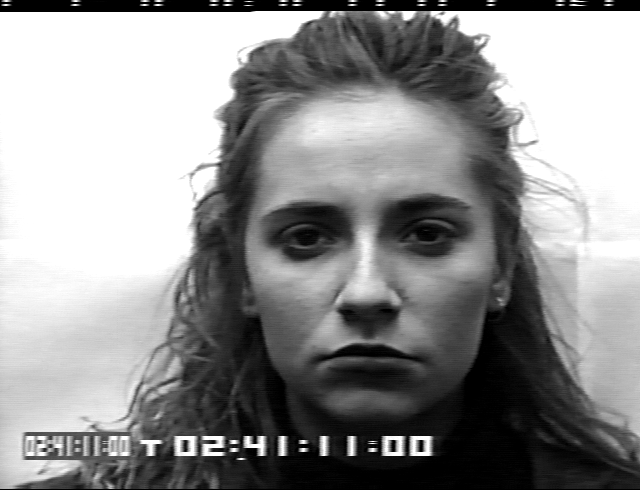
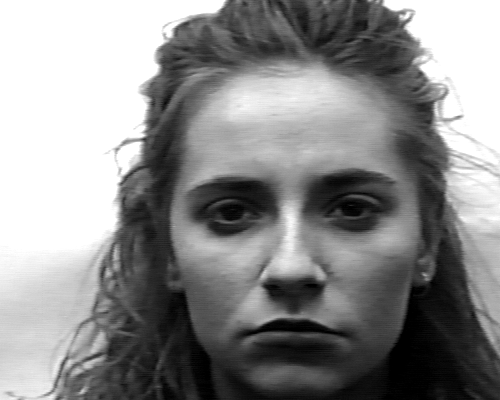
new images

diff --git a/face.py b/face.py
@@ -1,15 +1,18 @@
 from PIL import Image
 import os
 
-width = 640
-height = 425
+width_offset = 75
+height_offset = 25
+
+width = 500
+height = 400
 
 for path, dirnames, filenames in os.walk('cohn-kanade'):
   for filename in filenames:
-      if filename == ".DS_Store":
+      if filename == ".DS_Store" or filename != "S014_002_02411100.png":
         continue
       image_path = os.path.join(path, filename)
-      print image_path
       image = Image.open(image_path)
-      image = image.crop((0,0, width, height))
-      image.show()
+      image = image.crop((width_offset,height_offset, width + width_offset, height + height_offset))
+      image = image.convert("LA")
+      image.save(image_path)
